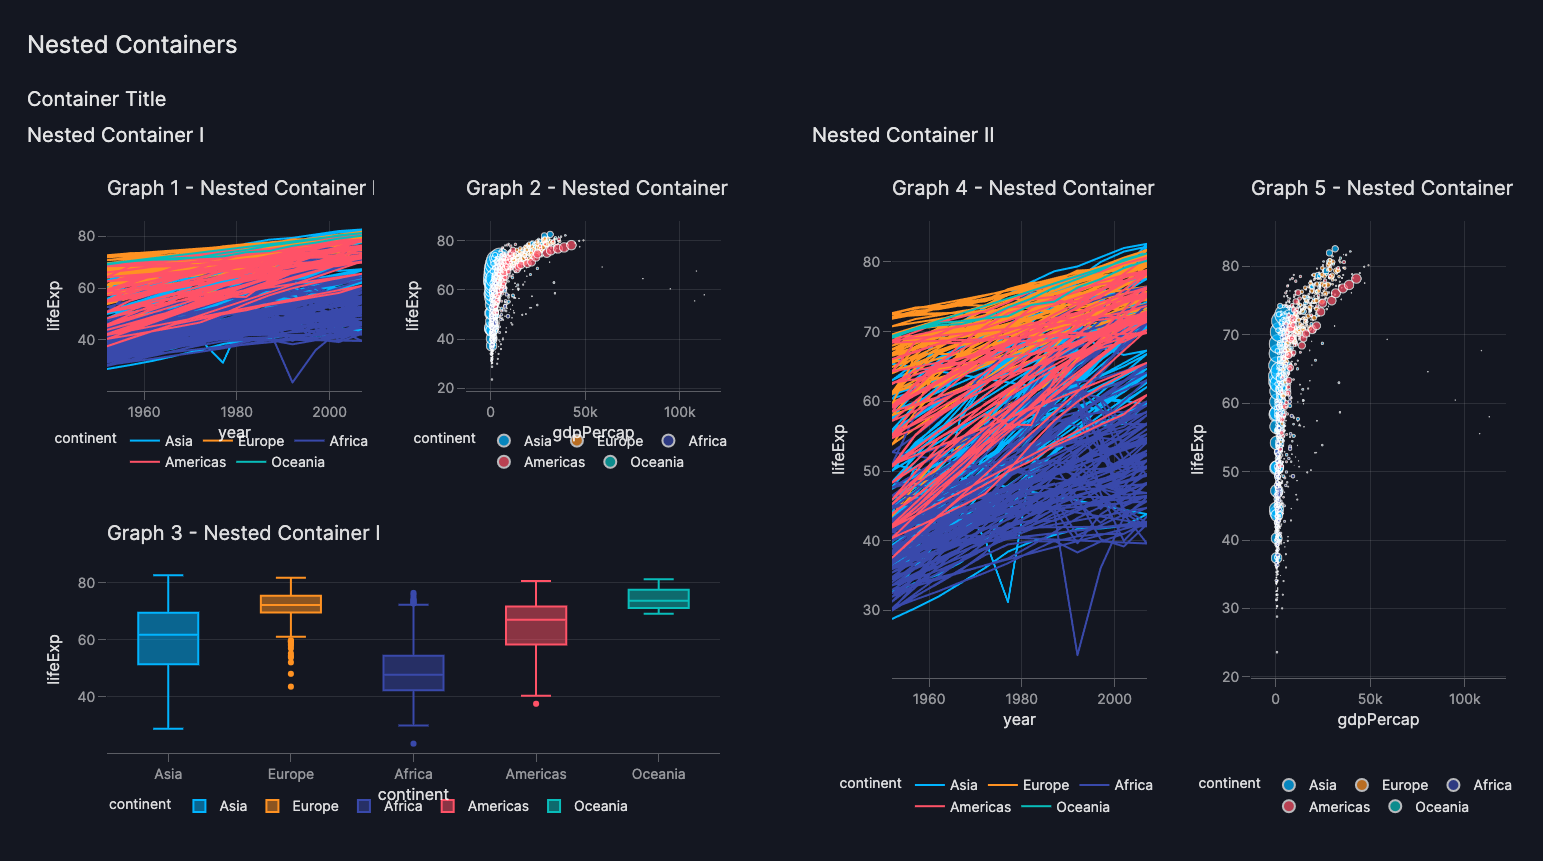
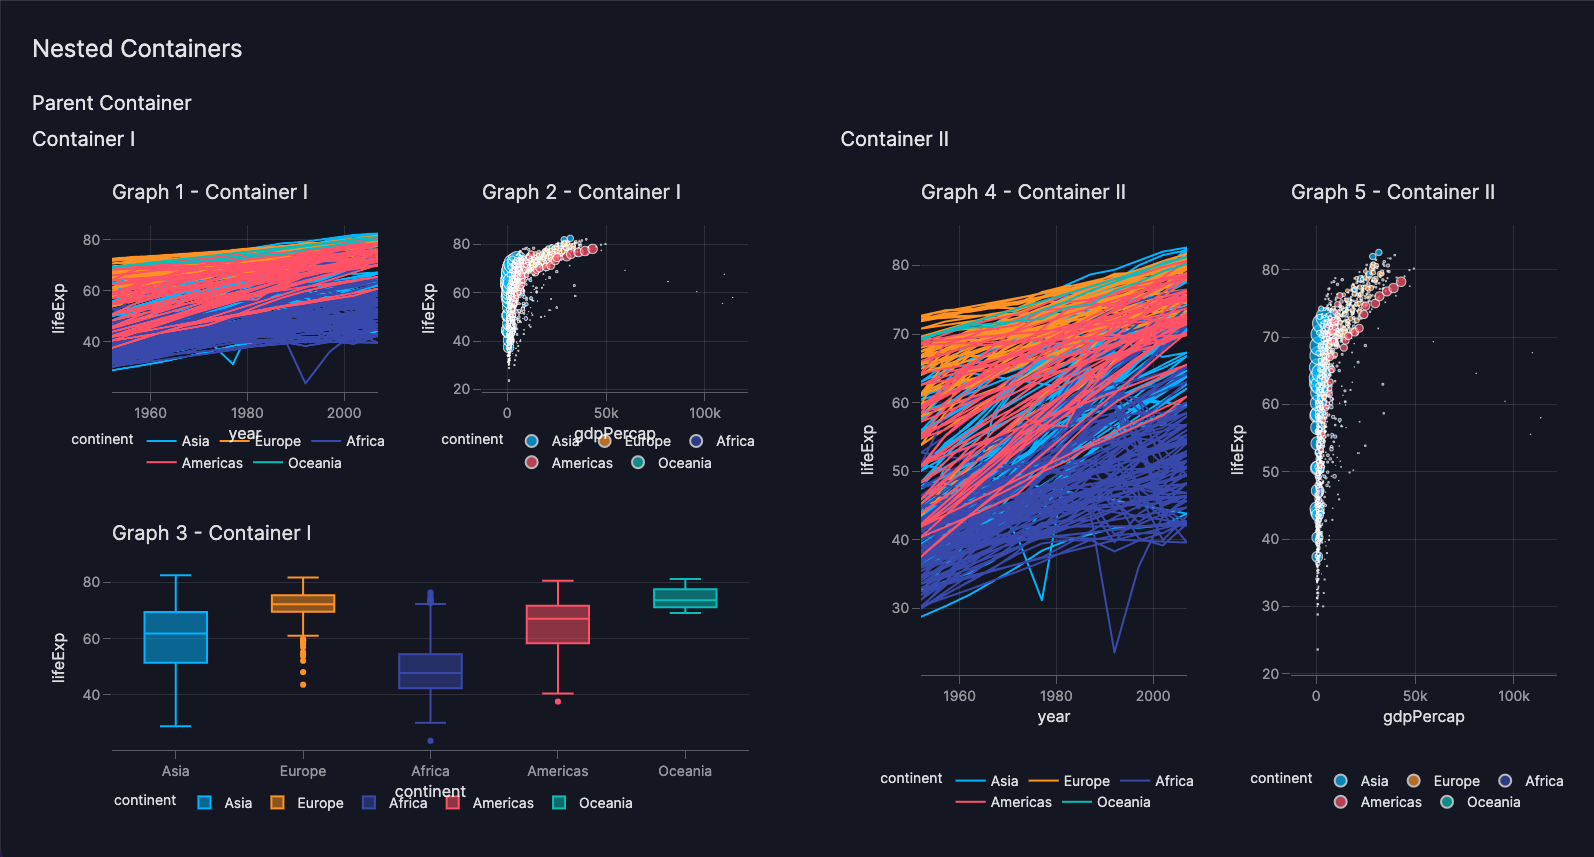
PR comments

diff --git a/vizro-core/examples/_dev/app.py b/vizro-core/examples/_dev/app.py
@@ -5,14 +5,15 @@ import vizro.plotly.express as px
 from vizro import Vizro
 
 df = px.data.gapminder()
-nested_container_one = vm.Container(
-    title="Nested Container I",
+
+child_container_one = vm.Container(
+    title="Container I",
     layout=vm.Layout(grid=[[0, 1], [2, 2]]),
     components=[
         vm.Graph(
             figure=px.line(
                 df,
-                title="Graph 1 - Nested Container I",
+                title="Graph 1 - Container I",
                 x="year",
                 y="lifeExp",
                 color="continent",
@@ -21,7 +22,7 @@ nested_container_one = vm.Container(
         vm.Graph(
             figure=px.scatter(
                 df,
-                title="Graph 2 - Nested Container I",
+                title="Graph 2 - Container I",
                 x="gdpPercap",
                 y="lifeExp",
                 size="pop",
@@ -31,7 +32,7 @@ nested_container_one = vm.Container(
         vm.Graph(
             figure=px.box(
                 df,
-                title="Graph 3 - Nested Container I",
+                title="Graph 3 - Container I",
                 x="continent",
                 y="lifeExp",
                 color="continent",
@@ -39,14 +40,15 @@ nested_container_one = vm.Container(
         ),
     ],
 )
-nested_container_two = vm.Container(
-    title="Nested Container II",
+
+child_container_two = vm.Container(
+    title="Container II",
     layout=vm.Layout(grid=[[0, 1]]),
     components=[
         vm.Graph(
             figure=px.line(
                 df,
-                title="Graph 4 - Nested Container II",
+                title="Graph 4 - Container II",
                 x="year",
                 y="lifeExp",
                 color="continent",
@@ -55,7 +57,7 @@ nested_container_two = vm.Container(
         vm.Graph(
             figure=px.scatter(
                 df,
-                title="Graph 5 - Nested Container II",
+                title="Graph 5 - Container II",
                 x="gdpPercap",
                 y="lifeExp",
                 size="pop",
@@ -69,9 +71,9 @@ page = vm.Page(
     title="Nested Containers",
     components=[
         vm.Container(
-            title="Container Title",
+            title="Parent Container",
             layout=vm.Layout(grid=[[0, 1]], col_gap="80px"),
-            components=[nested_container_one, nested_container_two],
+            components=[child_container_one, child_container_two],
         ),
     ],
 )

diff --git a/vizro-core/docs/pages/user_guides/container.md b/vizro-core/docs/pages/user_guides/container.md
@@ -2,7 +2,7 @@
 
 This guide shows you how to use containers to group your components into sections and subsections within the page.
 
-A `Container` complements the concept of a [`Page`][vizro.models.Page], and the two models have almost identical arguments.
+A [`Container`][vizro.models.Container] complements the concept of a [`Page`][vizro.models.Page], and the two models have almost identical arguments.
  [`Page.layout`](layouts.md) provides a way to structure the overall layout of the page, and a `Container` allows for more granular control within a specific section of that page.
 
 While there is currently no apparent difference in rendering, additional functionality will be added to the `Container` soon (e.g. controls specific to that container),
@@ -19,7 +19,7 @@ However, there are a few cases where you might want to use a `Container` instead
 - If you want to apply controls to selected subgrids (will be supported soon)
 
 
-## Containers
+## Basic Containers
 To add a [`Container`][vizro.models.Container] to your page, do the following:
 
 1. Insert the `Container` into the `components` argument of the [`Page`][vizro.models.Page]
@@ -46,11 +46,21 @@ To add a [`Container`][vizro.models.Container] to your page, do the following:
                     components=[
                         vm.Graph(
                             figure=px.scatter(
-                                iris, x="sepal_length", y="petal_width", color="species", title="Container I - Scatter"
+                                iris,
+                                x="sepal_length",
+                                y="petal_width",
+                                color="species",
+                                title="Container I - Scatter"
                             )
                         ),
                         vm.Graph(
-                            figure=px.bar(iris, x="sepal_length", y="sepal_width", color="species", title="Container I - Bar")
+                            figure=px.bar(
+                                iris,
+                                x="sepal_length",
+                                y="sepal_width",
+                                color="species",
+                                title="Container I - Bar"
+                            )
                         ),
                     ],
                 ),
@@ -128,7 +138,7 @@ To add a [`Container`][vizro.models.Container] to your page, do the following:
     [Container]: ../../assets/user_guides/components/containers.png
 
 
-## Nested containers
+## Nested Containers
 Containers can be nested, providing a hierarchical structure for organizing components.
 This nesting capability allows users to create more complex layouts and manage related components at any level of granularity.
 
@@ -136,10 +146,13 @@ To create nested containers, simply add a `Container` to the `components` argume
 
 !!! note
 
-    Note that an almost identical layout can also be achieved using [`Page.layout`](layouts.md), see the
-    [advanced grid example](layouts.md#grid-advanced-example) on how this can be done. Here we use `Container` instead
-    of `Page.layout` because we need finer control of selected grid areas (e.g. adding different titles to each subgrid
-    and have different spacing between groups of components).
+    Note that an almost identical layout can also be achieved using solely the [`Page.layout`](layouts.md) -
+    see the [advanced grid example](layouts.md#grid-advanced-example) on how this can be done.
+
+    Here we use the `Containers` instead of `Page.layout`, as we want to provide clearer visual separation between two chart groups.
+    In the below example, we have two groups of charts (left and right) and want to assign separate titles to each group
+    and increase the gap between them for enhanced visual separation. Such an arrangement is particularly advantageous
+    when grouping charts that are thematically related.
 
 !!! example "Nested Containers"
     === "app.py"
@@ -151,14 +164,14 @@ To create nested containers, simply add a `Container` to the `components` argume
 
         df = px.data.gapminder()
 
-        nested_container_one = vm.Container(
-            title="Nested Container I",
+        child_container_one = vm.Container(
+            title="Container I",
             layout=vm.Layout(grid=[[0, 1], [2, 2]]),
             components=[
                 vm.Graph(
                     figure=px.line(
                         df,
-                        title="Graph 1 - Nested Container I",
+                        title="Graph 1 - Container I",
                         x="year",
                         y="lifeExp",
                         color="continent",
@@ -167,7 +180,7 @@ To create nested containers, simply add a `Container` to the `components` argume
                 vm.Graph(
                     figure=px.scatter(
                         df,
-                        title="Graph 2 - Nested Container I",
+                        title="Graph 2 - Container I",
                         x="gdpPercap",
                         y="lifeExp",
                         size="pop",
@@ -177,7 +190,7 @@ To create nested containers, simply add a `Container` to the `components` argume
                 vm.Graph(
                     figure=px.box(
                         df,
-                        title="Graph 3 - Nested Container I",
+                        title="Graph 3 - Container I",
                         x="continent",
                         y="lifeExp",
                         color="continent",
@@ -186,14 +199,14 @@ To create nested containers, simply add a `Container` to the `components` argume
             ],
         )
 
-        nested_container_two = vm.Container(
-            title="Nested Container II",
+        child_container_two = vm.Container(
+            title="Container II",
             layout=vm.Layout(grid=[[0, 1]]),
             components=[
                 vm.Graph(
                     figure=px.line(
                         df,
-                        title="Graph 4 - Nested Container II",
+                        title="Graph 4 - Container II",
                         x="year",
                         y="lifeExp",
                         color="continent",
@@ -202,7 +215,7 @@ To create nested containers, simply add a `Container` to the `components` argume
                 vm.Graph(
                     figure=px.scatter(
                         df,
-                        title="Graph 5 - Nested Container II",
+                        title="Graph 5 - Container II",
                         x="gdpPercap",
                         y="lifeExp",
                         size="pop",
@@ -216,9 +229,9 @@ To create nested containers, simply add a `Container` to the `components` argume
             title="Nested Containers",
             components=[
                 vm.Container(
-                    title="Container Title",
+                    title="Parent Container",
                     layout=vm.Layout(grid=[[0, 1]], col_gap="80px"),
-                    components=[nested_container_one, nested_container_two],
+                    components=[child_container_one, child_container_two],
                 ),
             ],
         )
@@ -240,7 +253,7 @@ To create nested containers, simply add a `Container` to the `components` argume
                           x: year
                           y: lifeExp
                           color: continent
-                          title: Graph 1 - Nested Container I
+                          title: Graph 1 - Container I
                         type: graph
                       - figure:
                           _target_: scatter
@@ -249,7 +262,7 @@ To create nested containers, simply add a `Container` to the `components` argume
                           y: lifeExp
                           size: pop
                           color: continent
-                          title: Graph 2 - Nested Container I
+                          title: Graph 2 - Container I
                         type: graph
                       - figure:
                           _target_: box
@@ -257,12 +270,12 @@ To create nested containers, simply add a `Container` to the `components` argume
                           x: continent
                           y: lifeExp
                           color: continent
-                          title: Graph 3 - Nested Container I
+                          title: Graph 3 - Container I
                         type: graph
                     layout:
                       grid: [[ 0, 1 ], [2, 2]]
                     type: container
-                    title: Nested Container I
+                    title: Container I
                   - components:
                       - figure:
                           _target_: line
@@ -270,7 +283,7 @@ To create nested containers, simply add a `Container` to the `components` argume
                           x: year
                           y: lifeExp
                           color: continent
-                          title: Graph 4 - Nested Container II
+                          title: Graph 4 - Container II
                         type: graph
                       - figure:
                           _target_: scatter
@@ -279,17 +292,17 @@ To create nested containers, simply add a `Container` to the `components` argume
                           y: lifeExp
                           size: pop
                           color: continent
-                          title: Graph 5 - Nested Container II
+                          title: Graph 5 - Container II
                         type: graph
                     layout:
                       grid: [[ 0, 1 ]]
                     type: container
-                    title: Nested Container I
+                    title: Container II
                 layout:
                   grid: [[0, 1]]
                   col_gap: 80px
                 type: container
-                title: Container Title
+                title: Parent Container
             title: Nested Containers
         ```
     === "Result"

diff --git a/vizro-core/docs/pages/user_guides/layouts.md b/vizro-core/docs/pages/user_guides/layouts.md
@@ -118,7 +118,7 @@ grid=[[0, 1, 3, 4],
 Generally, the `Layout` provides full control over the arrangement of top-level components within a Page,
 allowing arbitrarily granular control of the grid by creating larger grids.
 
-If you want to divide the grid into subgrids with finer control over these, you can use [Containers](container.md).
+If you want to divide the grid into subgrids with finer control over these, you can use [`Containers`](container.md).
 See our section on [when to use `Containers` vs. `Page.layout`](container.md#when-to-use-containers) for more information.
 
 !!! example "Grid Arrangement - Advanced Example"
